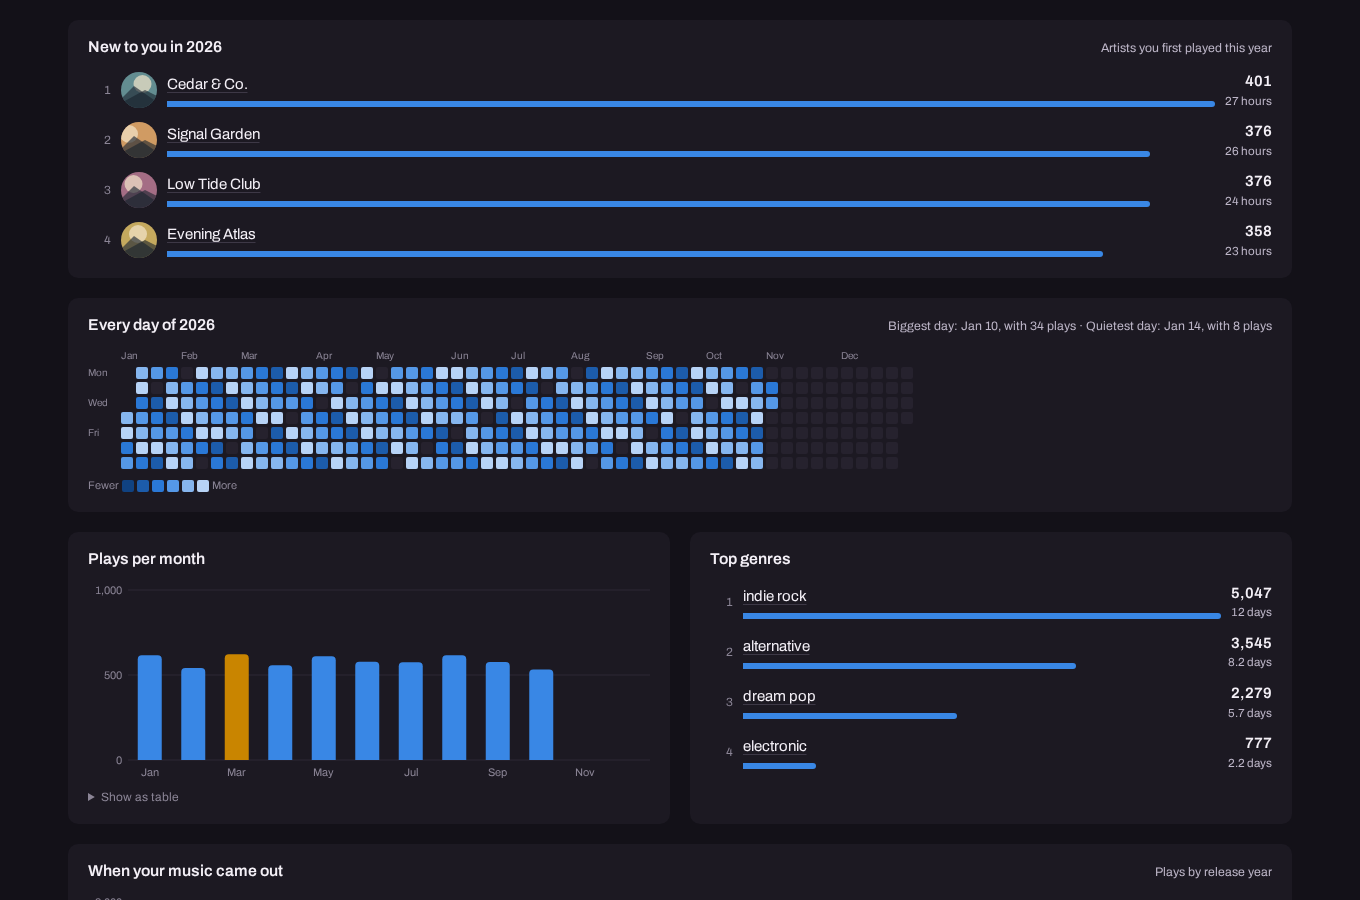
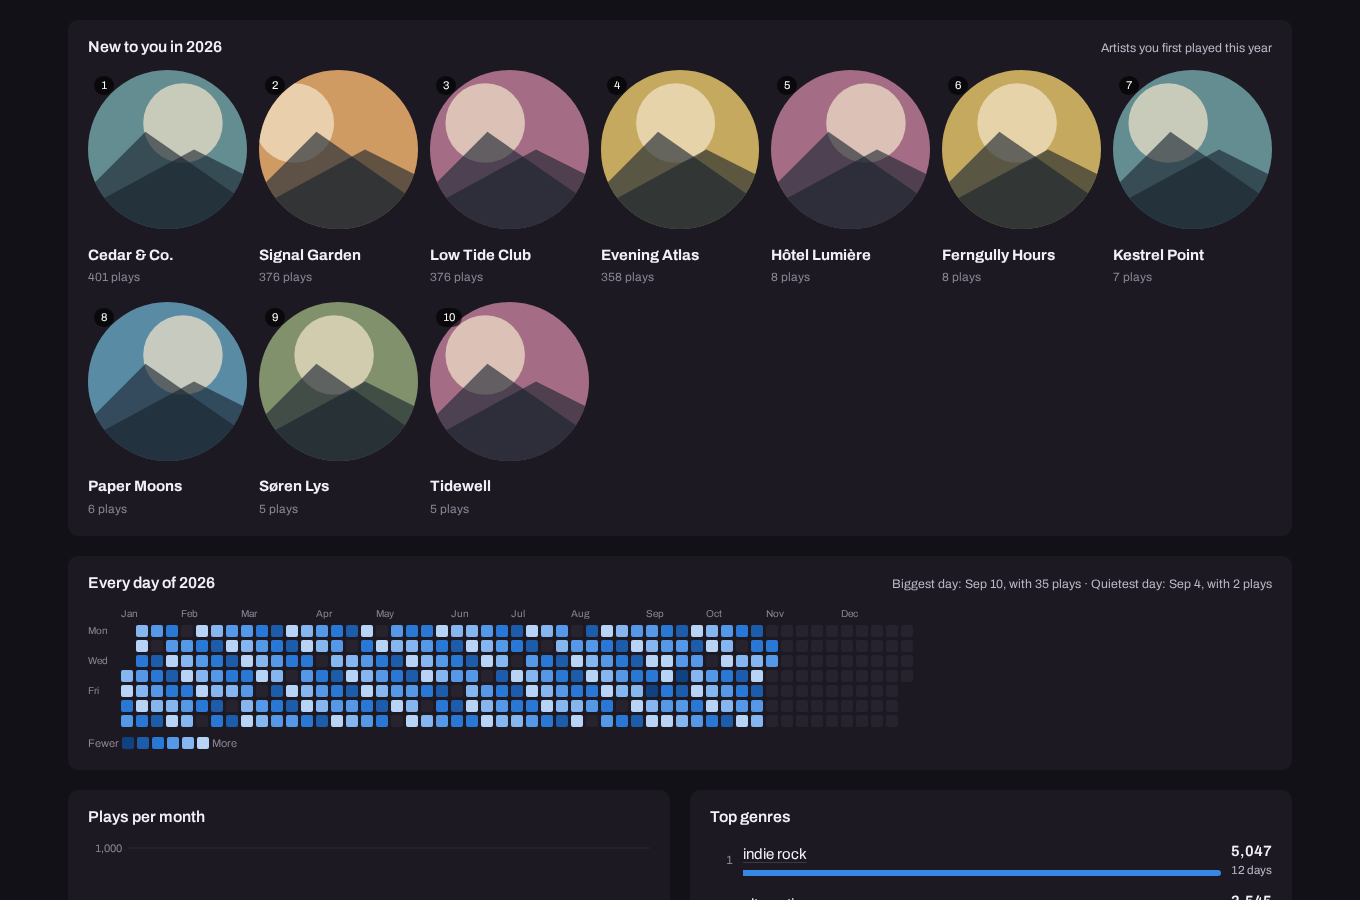
Show the Reports page and its PDF in the screenshots
The demo seed gains ten artists first heard in September 2026. That
gives the default report new artists to list and more genres to chart.
npm run screenshots now captures the Reports page, then clicks
Download PDF and saves the September 2026 report. Its three pages are
committed as images, and the README describes Reports.

Year in review's "New to you in 2026" now includes the newcomers.

diff --git a/README.md b/README.md
@@ -28,6 +28,9 @@ recommendation picks. No personal listening data or real connected accounts are 
   year and shows your biggest and quietest listening days. Quietest means the fewest plays on
   a day when you listened; days with no plays are excluded. “New to you” is based on the history
   stored here.
+- **Get a monthly or yearly report.** Reports compares any calendar month or year with the one
+  before it. *Download PDF* saves it as a printable report: totals, the busiest day, plays over
+  the period, when you listen, top artists, songs, albums and genres, and every artist new to you.
 - **Find new music.** Discover offers artists, albums, and songs you haven't played in the app's
   recorded history, using Last.fm recommendations. Connect Last.fm or ListenBrainz in Settings
   to use your top artists and songs from those services; otherwise it uses your local history.
@@ -55,6 +58,17 @@ with a pause per developer app, and add automated build, browser, and security c
 <summary>Genre pages: top song, album, artist, and top 10 lists</summary>
 
 ![Indie rock genre page with leading song, album, and artist above three top 10 lists](docs/screenshots/genre.png)
+
+</details>
+
+<details>
+<summary>Reports: a month compared with the one before, and its PDF</summary>
+
+![Reports page for September 2026 with a Download PDF link, totals, plays over the month, and top lists](docs/screenshots/reports.png)
+
+The downloaded PDF: [overview](docs/screenshots/report-pdf-1.png),
+[top lists](docs/screenshots/report-pdf-2.png), [new artists](docs/screenshots/report-pdf-3.png),
+or [the PDF itself](docs/screenshots/listening-report-2026-09.pdf).
 
 </details>
 

diff --git a/docs/screenshots/README.md b/docs/screenshots/README.md
@@ -25,7 +25,12 @@ available port, seeds a fresh database in the OS temporary directory, and replac
 It clears inherited music-service credentials, blocks outbound requests in the demo server and
 browser, and removes the temporary server and database when finished. Existing app data is not used.
 
+The script also downloads the September 2026 report from the Reports page and saves it here as
+`listening-report-2026-09.pdf`. The `report-pdf-*.png` images are its pages, rasterized at 1.5x
+with a PDF renderer such as [MuPDF](https://mupdf.com/). The script doesn't make them, so render
+them again when the PDF changes.
+
 The script checks page headings and the unchanged app title, genre lists, yearly highlights,
-image loading, chart sizing, desktop horizontal overflow, and browser errors before reporting success.
+image loading, chart sizing, the report download, desktop horizontal overflow, and browser errors before reporting success.
 The dashboard currently has horizontal overflow on narrow phone screens. The phone image preserves
 the current layout, and the script reports that overflow without changing or hiding page content.
